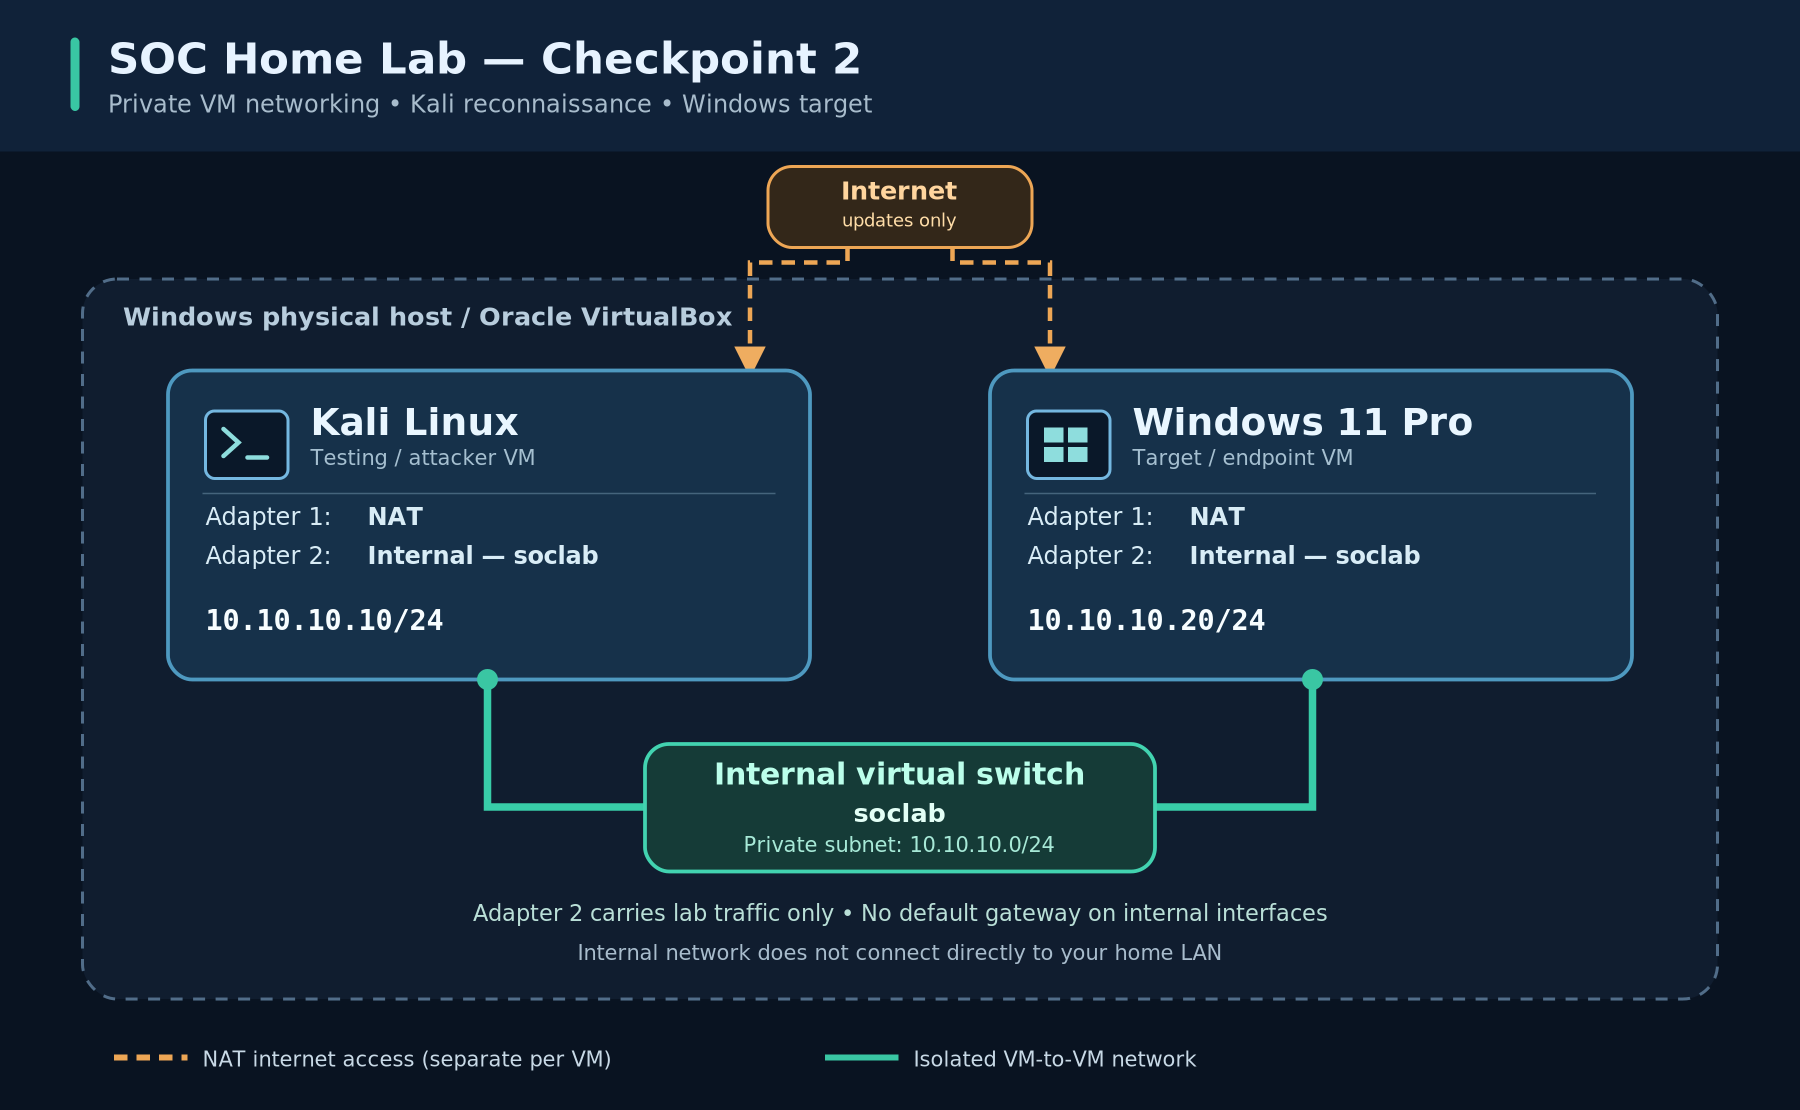
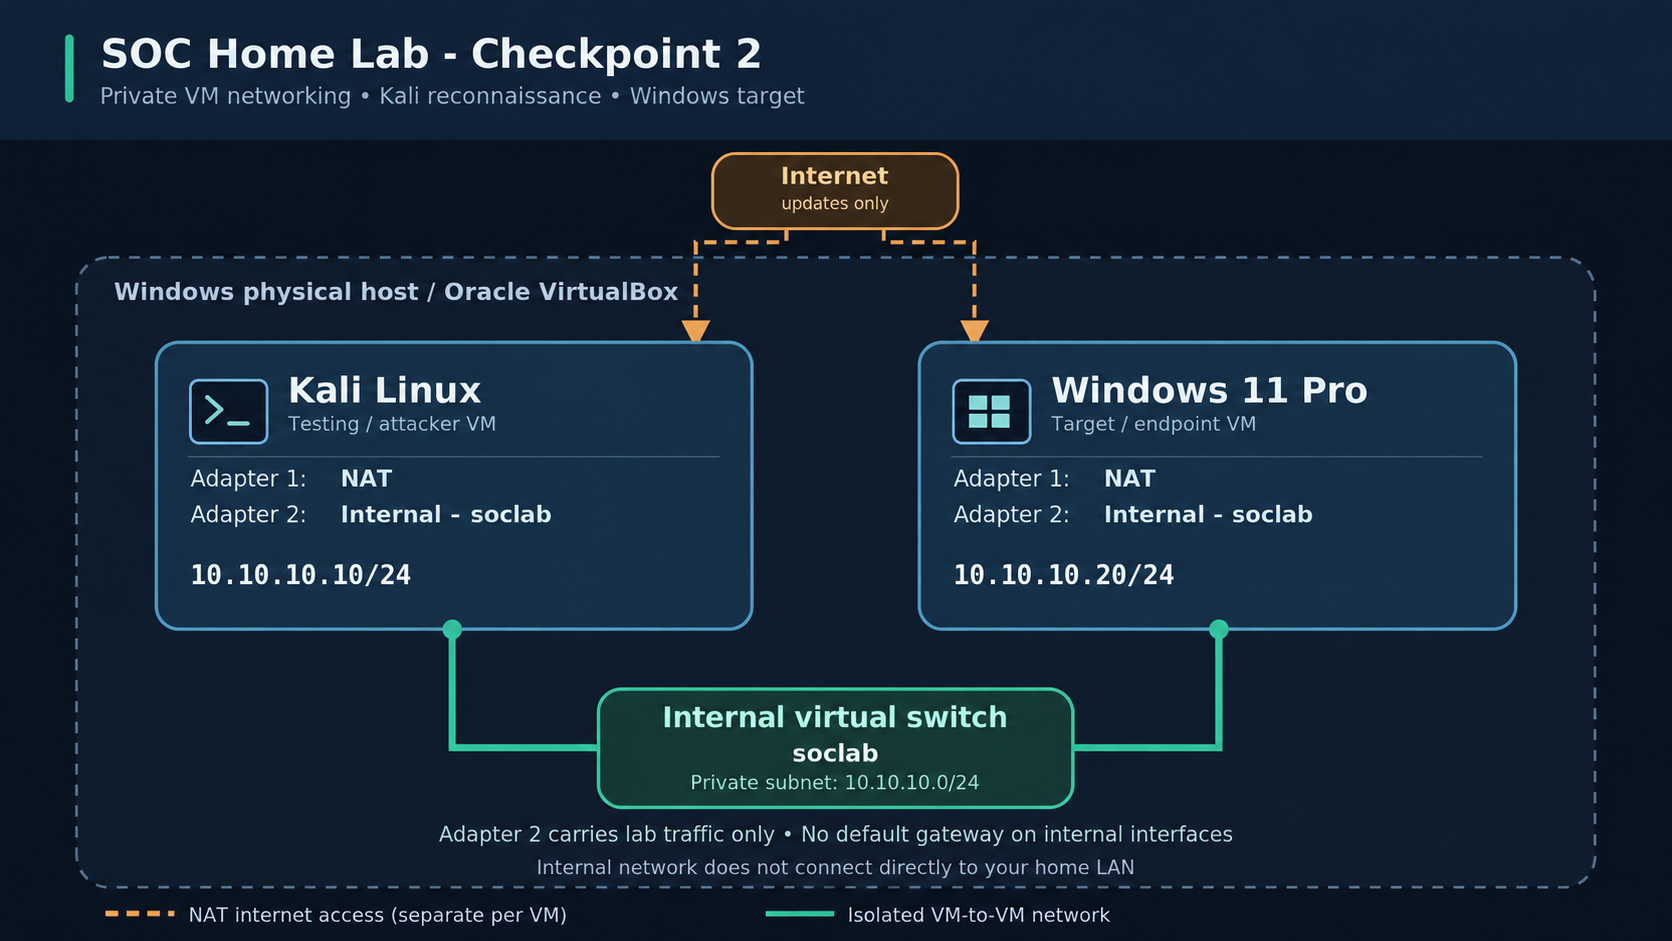
Complete checkpoint 5 - Splunk Enterprise integration
-Added checkpoint 5 notes
-Updated README with checkpoint 5 progress
-Added screenshots

Changed region(s): [[0.0622, 0.0308, 0.933, 0.9862]]

diff --git a/notes/05-splunk-enterprise-integration.md b/notes/05-splunk-enterprise-integration.md
@@ -1,0 +1,53 @@
+# Objective
+Deploy Splunk Enterprise as a centralized SIEM, configure Windows event collection, and verify that Windows and Sysmon events are successfully indexed and searchable in Splunk.
+
+## Lab Environment
+- SIEM software: Splunk Enterprise 10.6.1.1
+- SIEM server VM: Ubuntu Server 26.04.1
+- Windows VM for endpoint telemetry: Windows Pro 26H2
+- Software for enhanced endpoint telemetry: Sysmon 15.22
+- Collection agent: Splunk Universal Forwarder 10.6.1.1
+- Splunk Web: TCP 8000; forwarding receiver: TCP 9997
+
+## Network Design
+Updated network configuration:
+- Lab subnet: 10.11.12.0/24
+- Splunk server IP: 10.11.12.6/24
+- Windows VM IP: 10.11.12.4
+- Receiving port on SIEM server: TCP 9997
+- Splunk web interface port: TCP 8000
+The Windows VM endpoint collects operating system and Sysmon events via Splunk Universal Forwarder. Collected events transfer to Splunk Enterprise on Ubuntu server VM, listening on port 9997.
+
+## Configuration and Testing
+1. Updated and verified all VMs to share the lab network.
+2. Installed and updated Ubuntu Server and installed Splunk Enterprise.
+3. Started Splunk and verified access to Splunk Web on TCP 8000.
+4. Enabled Splunk's receiving port on TCP 9997 and tested connectivity from Windows VM.
+5. Installed Splunk Universal Forwarder on Windows VM and verified its service is running.
+6. Configured and verified inputs.conf to collect Security, System, Application, and Sysmon Operational events into main. Verified with btool.
+7. Generated a custom Windows Application event and located it in Splunk.
+8. Opened Notepad and located and reviewed its Sysmon process creation event.
+9. Verified that Windows Security events are searchable and the SPL searches below.
+10. Saved VM snapshots.
+
+## SPL Searches
+1. Identifying data by host, source, and sourcetype: "index=main | stats count by host source sourcetype | sort -count"
+2. Confirming the custom Event ID 900 message reached Splunk: "index=main source="WinEventLog:Application" "Checkpoint 5 forwarding test""
+3. Finding events that represent new processes: index=main source="WinEventLog:Microsoft-Windows-Sysmon/Operational" (EventCode=1 OR EventID=1)"
+4. Investigating an executed process using Sysmon event: "index=main source="WinEventLog:Microsoft-Windows-Sysmon/Operational" "notepad.exe""
+5. Reviewing collected Windows event IDs: "index=main source="WinEventLog:Security" | stats count by EventCode | sort -count"
+
+## Evidence
+- Lab network update: ![Update of lab network](../screenshots/05-lab-network-update.png)
+- Splunk Enterprise on Ubuntu Server VM: ![Ubuntu Server CLI showing Splunk Enterprise](../screenshots/05-ubuntu-server.png)
+- Splunk browser interface and receiver port: ![Splunk Enterprise browser interface](../screenshots/05-splunk-installed.png) ![Splunk receiver port and configuration on browser interface](../screenshots/05-splunk-receiver.png)
+- Windows forwarder: ![Universal Splunk Forwarder configuration and running service](../screenshots/05-forwarder-configured.png)
+- Sysmon process creation event in Splunk: ![Sysmon Operational event for notepad execution on Splunk](../screenshots/05-sysmon-process-in-splunk1.png) ![End of details](../screenshots/05-sysmon-process-in-splunk2.png)
+
+## Results and Findings
+- Splunk Web: TCP 8000, Pass
+- Splunk receiving port: TCP 9997, Pass
+- Universal Forwarder service and configuration: Verified
+- Sysmon Event ID 1/Notepad execution in Splunk: Found
+- Windows Security events in Splunk: Found
+- Event pipeline: Windows and Sysmon create events -> Universal Forwarder collects and sends them to Splunk -> Splunk indexes them for searches and analysis.

diff --git a/README.md b/README.md
@@ -13,18 +13,21 @@ With this project, I plan to practice and improve my understanding of:
 - MITRE ATT&CK mapping
 
 ## Planned Architecture
-The lab will initially contain:
+Pre-Checkpoint 5:
 - Kali Linux VM: Used to generate controlled security activity
 - Windows VM: Monitored endpoint
 - Isolated virtual network: Allows the systems to communicate safely
 ![SOC Home Lab Network Architecture](screenshots/02-lab-network-diagram.png)
+Post-Checkpoint 5:
+- Ubuntu Server VM: SIEM using Splunk Enterprise
+![SOC Home Lab Network Architecture Update](screenshots/05-updated-lab-network-diagram.png)
 
 *Additional network and security tools will be added as the lab progresses.
 
-## Project Status
+## Project Status With Checkpoint Notes
 - [x] Checkpoint 1 - Initial repository setup on GitHub.
 - [x] [Checkpoint 2 - Virtual environment setup and basic network connectivity testing](notes/02-virtual-environment.md)
 - [x] [Checkpoint 3 - Windows event log investigation](notes/03-windows-event-log-investigation.md)
 - [x] [Checkpoint 4 - Sysmon installation and event analysis](notes/04-sysmon-endpoint-telemetry.md)
-- [ ] Checkpoint 5
+- [x] [Checkpoint 5 - Splunk Enterprise integration](notes/05-splunk-enterprise-integration.md)
 

diff --git a/notes/04-sysmon-endpoint-telemetry.md b/notes/04-sysmon-endpoint-telemetry.md
@@ -25,7 +25,7 @@ Install and configure Microsoft Sysmon on the Windows VM. Generate normal proces
 
 ## Results and Findings
 - Sysmon installed and sysmon service running.
-- Sysmon Operational log: 
+- Sysmon Operational log: Confirmed to provide detailed endpoint activity.
 - Process creation: Event ID 1; process=whoami.exe, commandline=whoami, parent process=cmd.exe.
 - Network connection: Event ID 3; initiated=true; source IP=10.10.10.20 (Windows VM), destination IP=10.10.10.10 (Kali VM), destination port=8080.
 - Native Windows Event ID 4688 provides process creation information when auditing is enabled. Sysmon Event ID 1 adds fields such as ProcessGuid and executable hashes. Event ID 3 associates network connections with processes.
